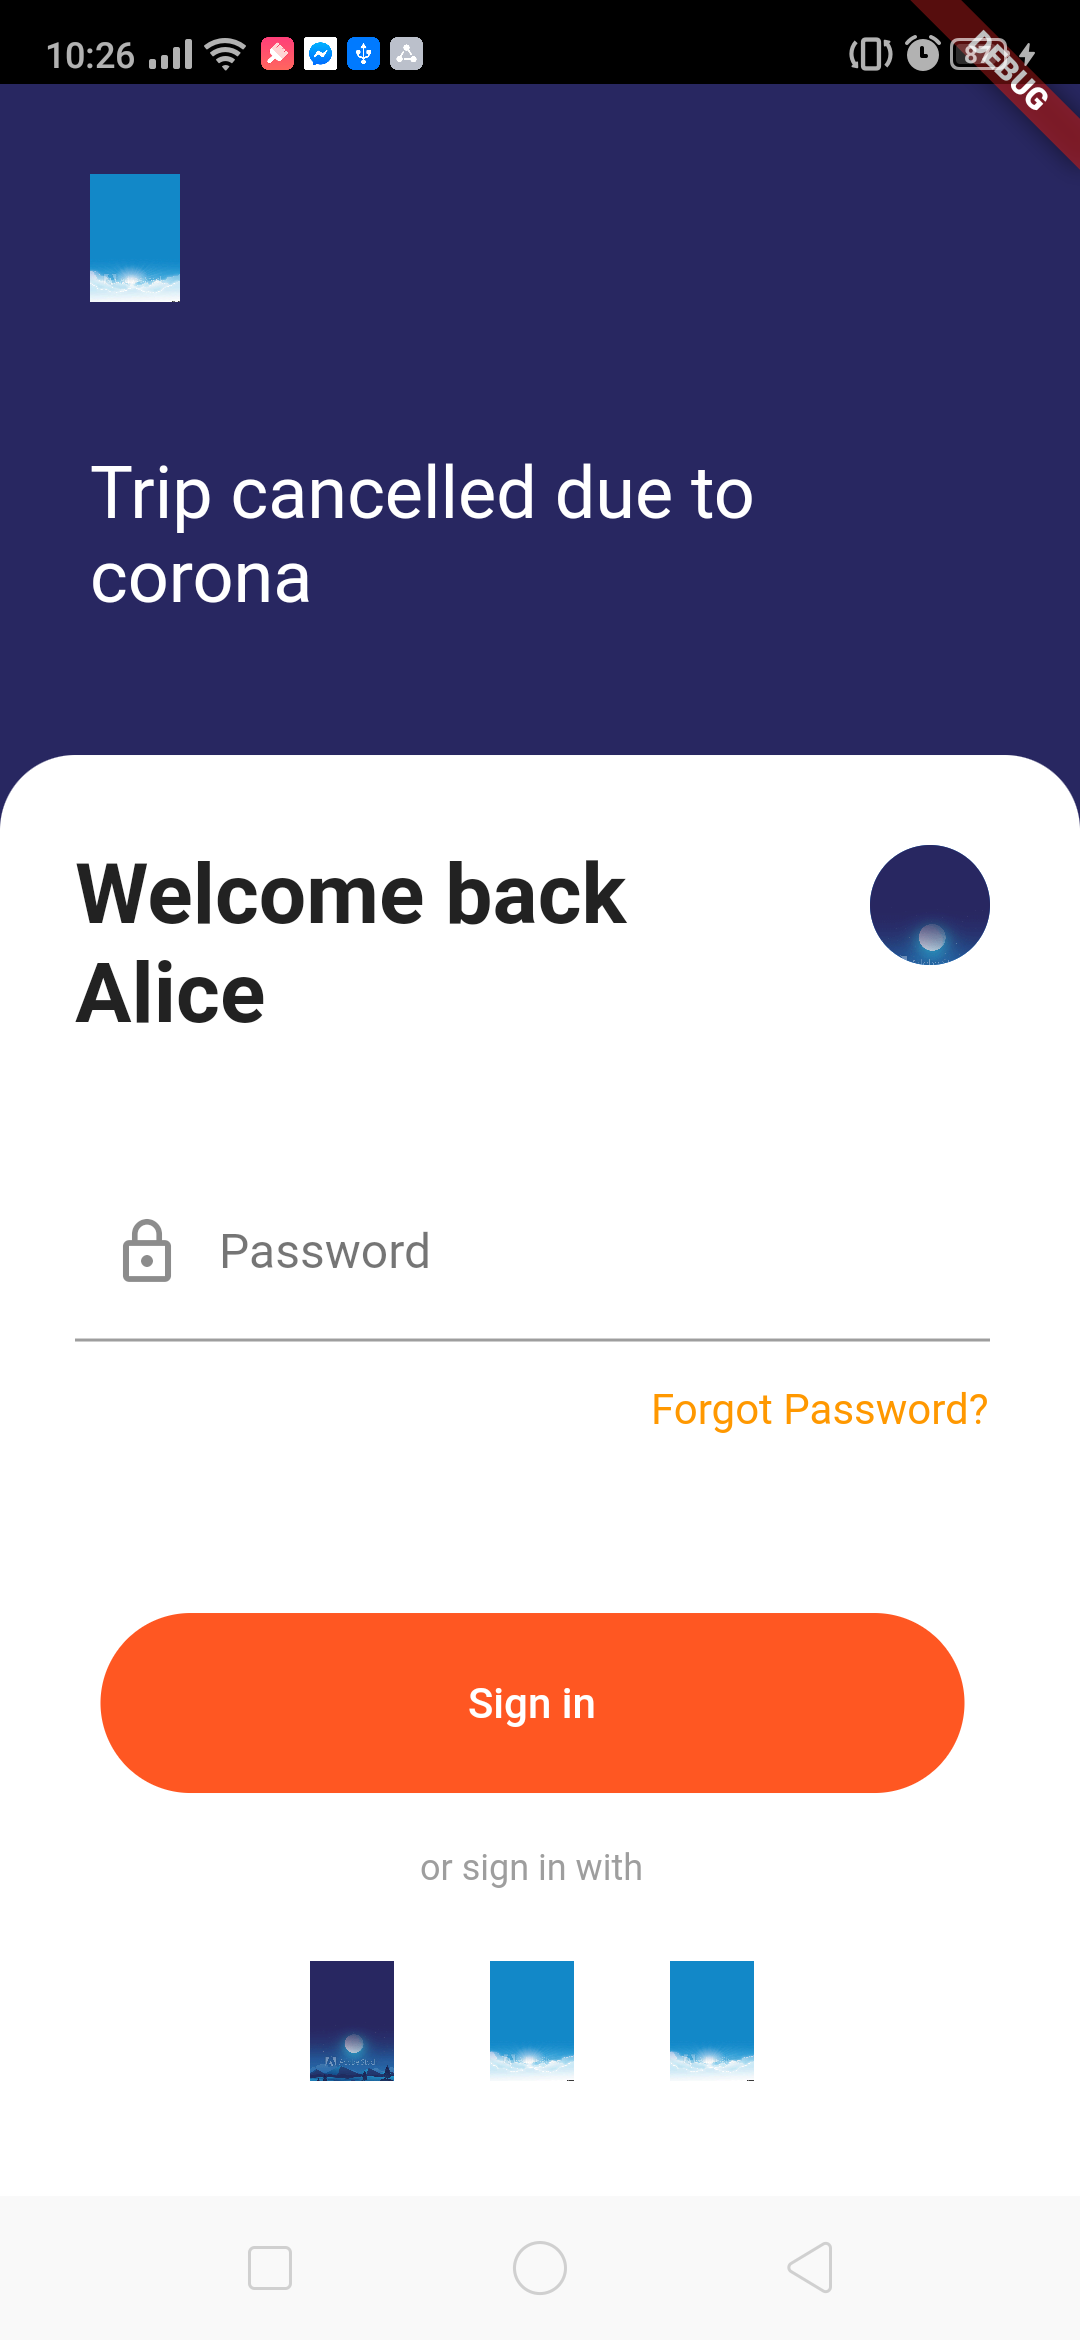
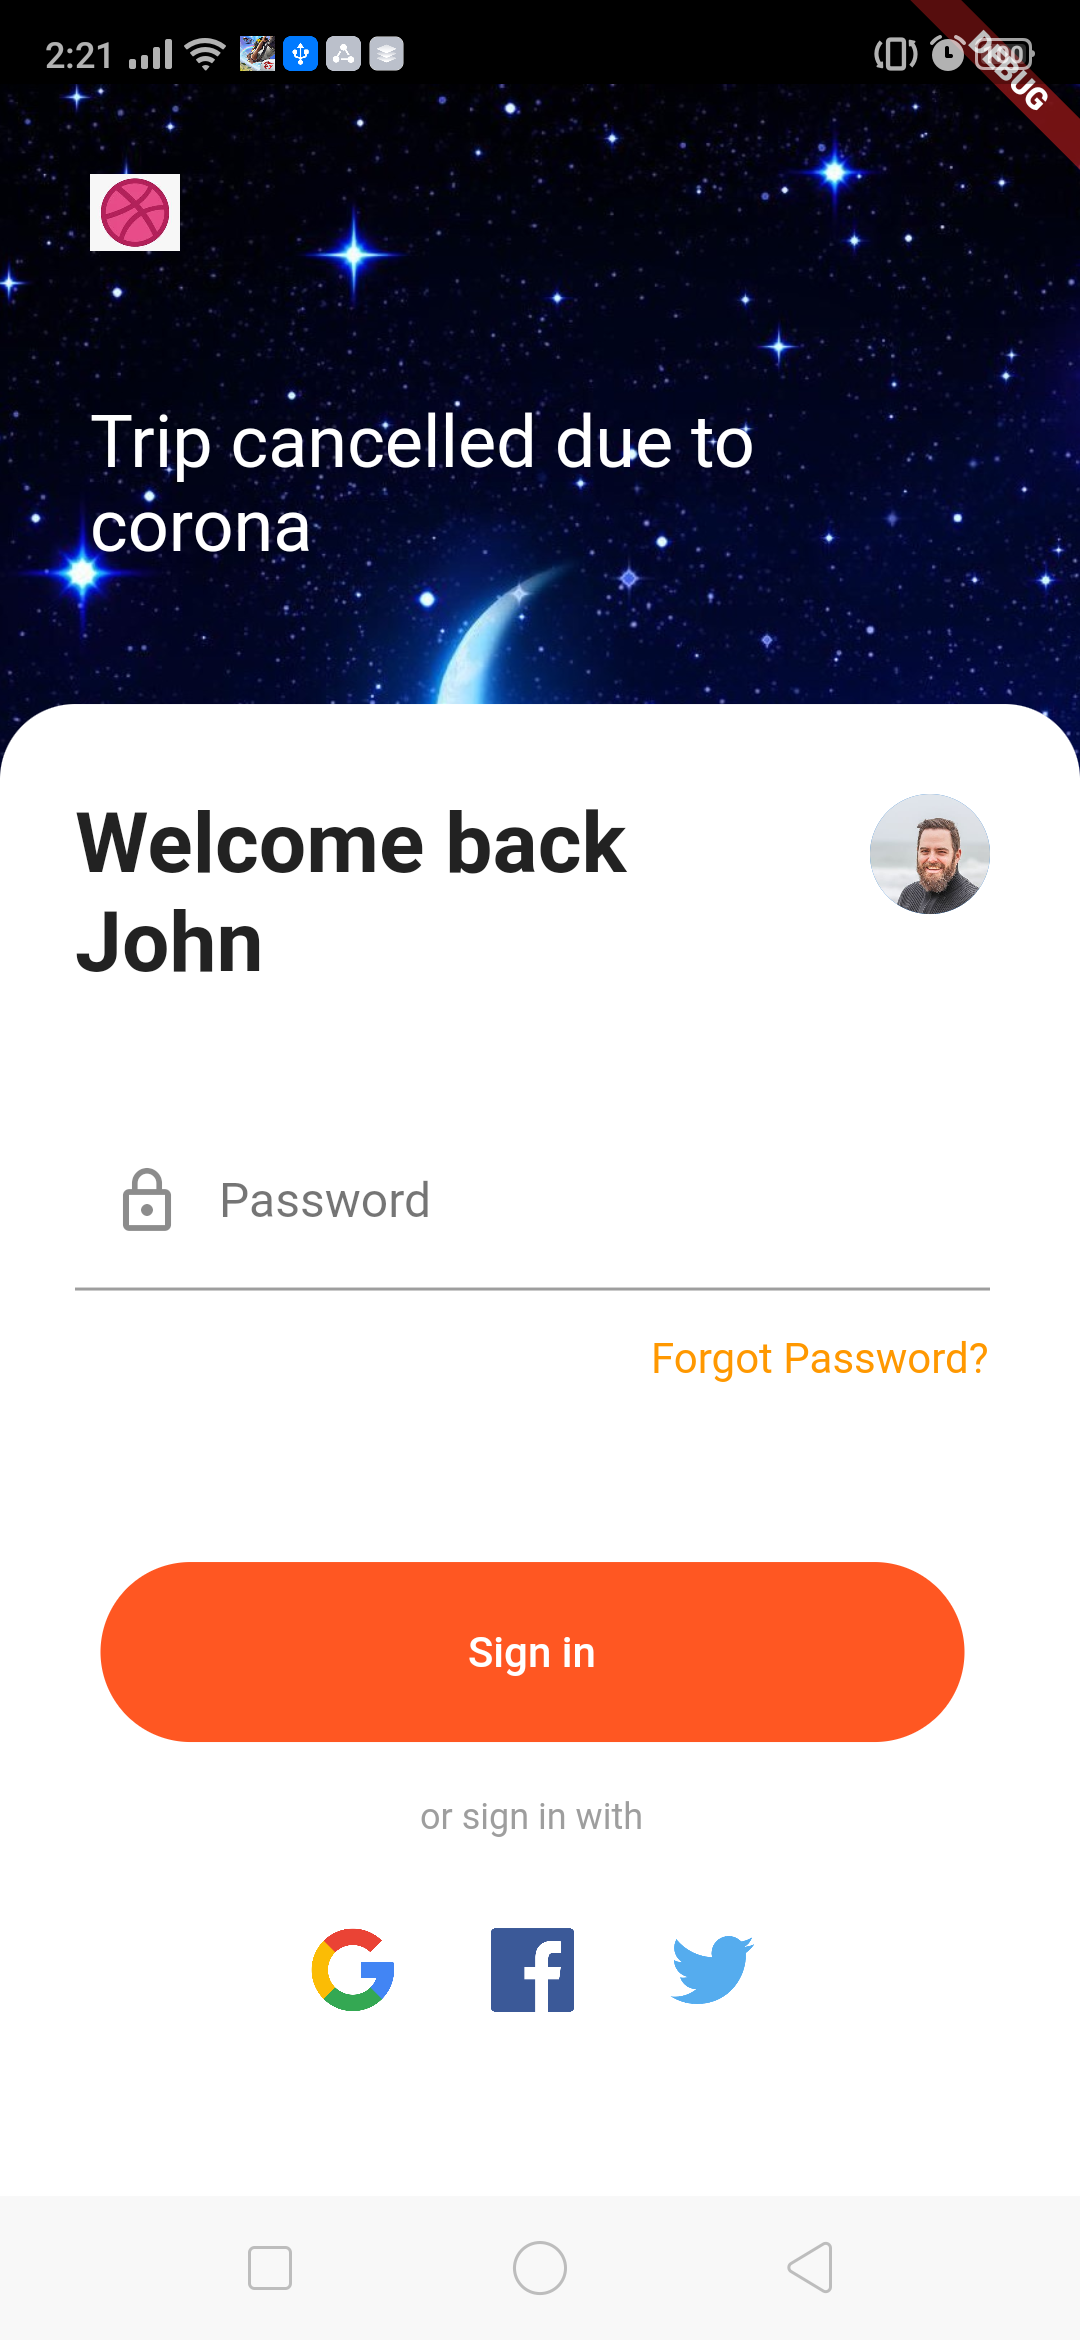
'Init'

diff --git a/lib/sign-in.dart b/lib/sign-in.dart
@@ -13,7 +13,7 @@ class SignIn extends StatelessWidget {
         body: Container(
           decoration: BoxDecoration(
               image: DecorationImage(
-                  image: AssetImage('Images/night.png'),
+                  image: AssetImage('Images/night.jpg'),
                   fit: BoxFit.cover
               )
           ),
@@ -23,7 +23,7 @@ class SignIn extends StatelessWidget {
               Container(
                 padding: EdgeInsets.all(30.0),
                 child: Image.asset(
-                  'Images/day.png',
+                  'Images/Dribbble.jpg',
                   width: 30.0,
                 ),
               ),
@@ -60,7 +60,7 @@ class SignIn extends StatelessWidget {
                               child: Container(
                                 margin: EdgeInsets.fromLTRB(0.0, 0.0, 20.0, 0.0),
                                 child: Text(
-                                  'Welcome back Alice',
+                                  'Welcome back John',
                                   style: TextStyle(
                                     fontSize: 28.0,
                                     fontWeight: FontWeight.bold,
@@ -71,7 +71,7 @@ class SignIn extends StatelessWidget {
                             Container(
                               margin: EdgeInsets.fromLTRB(20.0, 0.0, 0.0, 0.0),
                               child: CircleAvatar(
-                                backgroundImage: AssetImage('Images/night.png'),
+                                backgroundImage: AssetImage('Images/pic1.jpeg'),
                               ),
                             )
                           ],
@@ -131,7 +131,7 @@ class SignIn extends StatelessWidget {
                               child: FlatButton(
                                 onPressed: () {},
                                 child: Image.asset(
-                                  'Images/night.png',
+                                  'Images/Google.png',
                                   width: 30.0,
                                 ),
                               ),
@@ -142,7 +142,7 @@ class SignIn extends StatelessWidget {
                               child: FlatButton(
                                 onPressed: () {},
                                 child: Image.asset(
-                                  'Images/day.png',
+                                  'Images/Facebook.png',
                                   width: 30.0,
                                 ),
                               ),
@@ -153,7 +153,7 @@ class SignIn extends StatelessWidget {
                               child: FlatButton(
                                 onPressed: () {},
                                 child: Image.asset(
-                                  'Images/day.png',
+                                  'Images/twitter.png',
                                   width: 30.0,
                                 ),
                               ),

diff --git a/lib/main.dart b/lib/main.dart
@@ -19,7 +19,7 @@ class Home extends StatelessWidget {
           body: Container(
             decoration: BoxDecoration(
               image: DecorationImage(
-                image: AssetImage('Images/night.png',),
+                image: AssetImage('Images/night.jpg',),
                 fit: BoxFit.cover
               )
             ),
@@ -29,7 +29,7 @@ class Home extends StatelessWidget {
                 Container(
                   padding: EdgeInsets.all(30.0),
                   child: Image.asset(
-                    'Images/day.png',
+                    'Images/Dribbble.jpg',
                     width: 30.0,
                   ),
                 ),

diff --git a/lib/sign-up.dart b/lib/sign-up.dart
@@ -15,7 +15,7 @@ class SignUp extends StatelessWidget {
         body: Container(
           decoration: BoxDecoration(
               image: DecorationImage(
-                image: AssetImage('Images/night.png'),
+                image: AssetImage('Images/night.jpg'),
                 fit: BoxFit.cover
               )
           ),
@@ -25,7 +25,7 @@ class SignUp extends StatelessWidget {
               Container(
                 padding: EdgeInsets.all(30.0),
                 child: Image.asset(
-                  'Images/day.png',
+                  'Images/Dribbble.jpg',
                   width: 30.0,
                 ),
               ),
